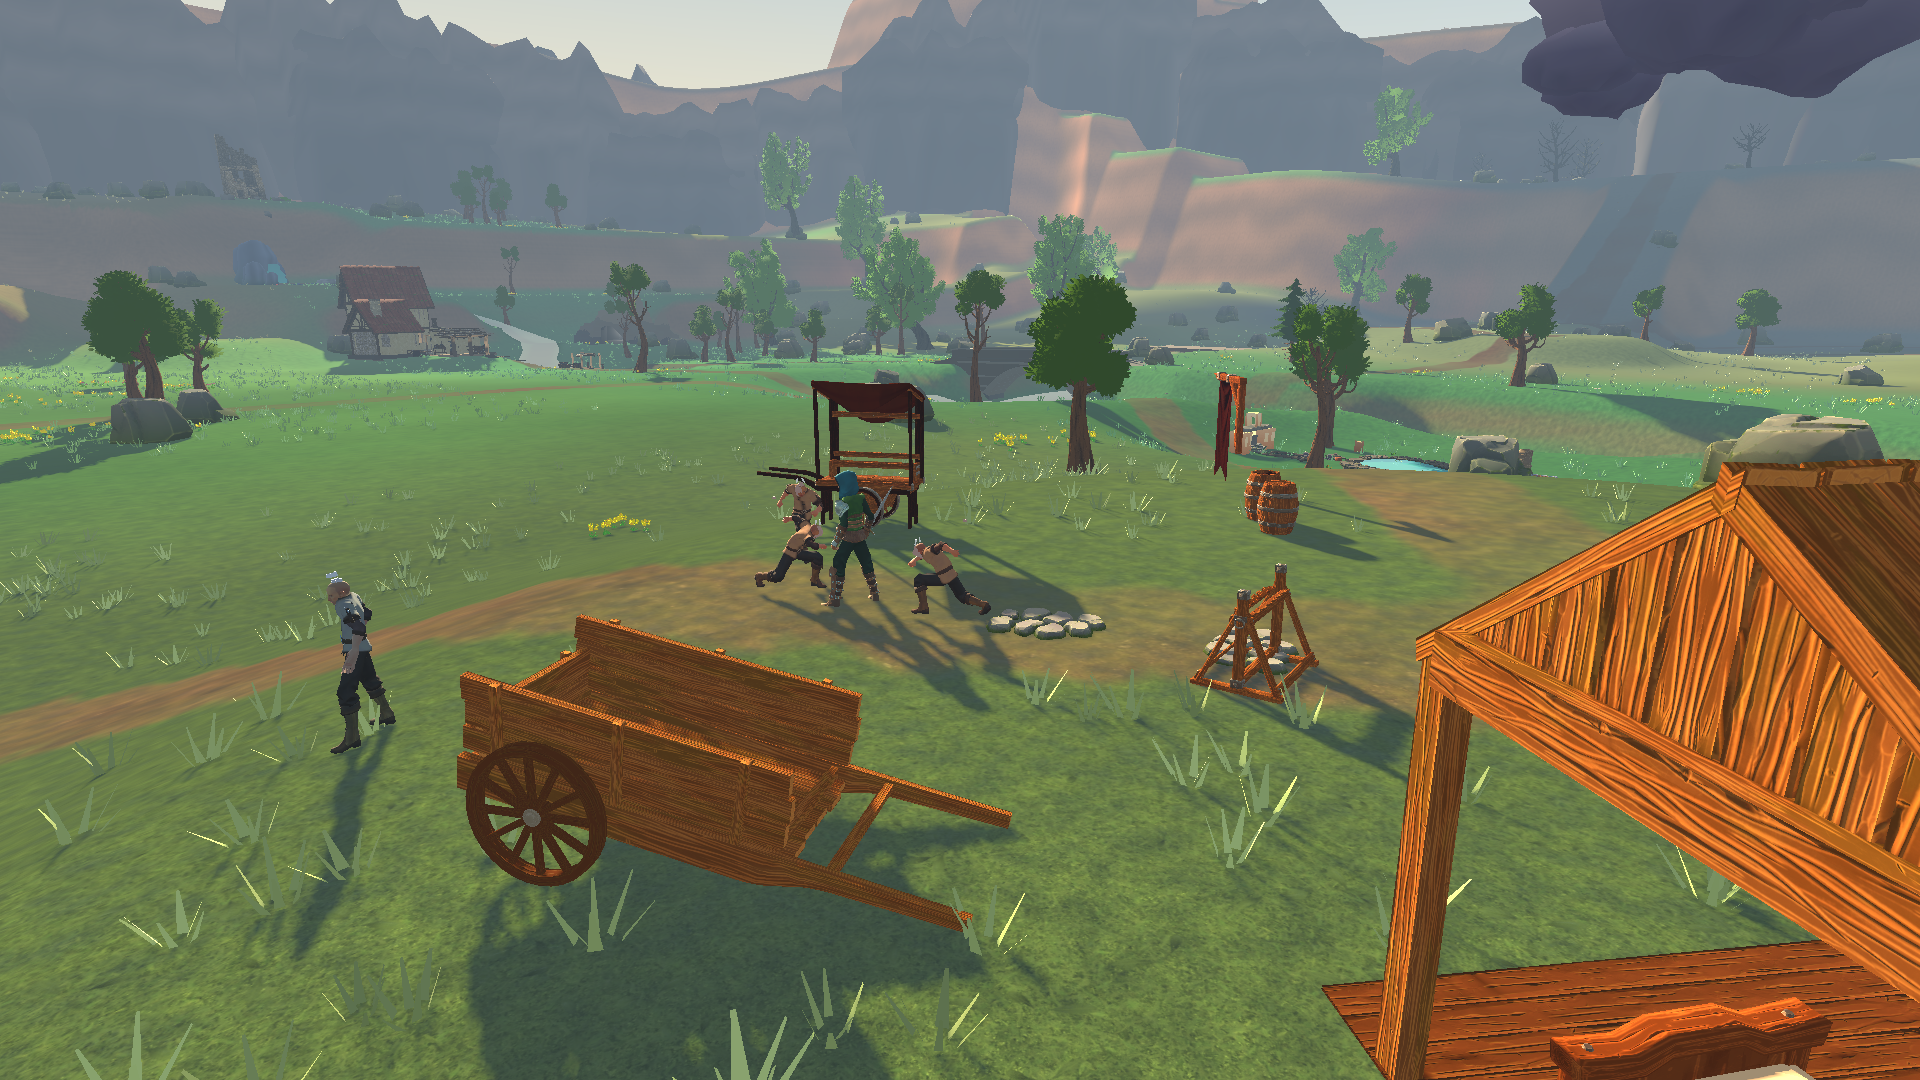
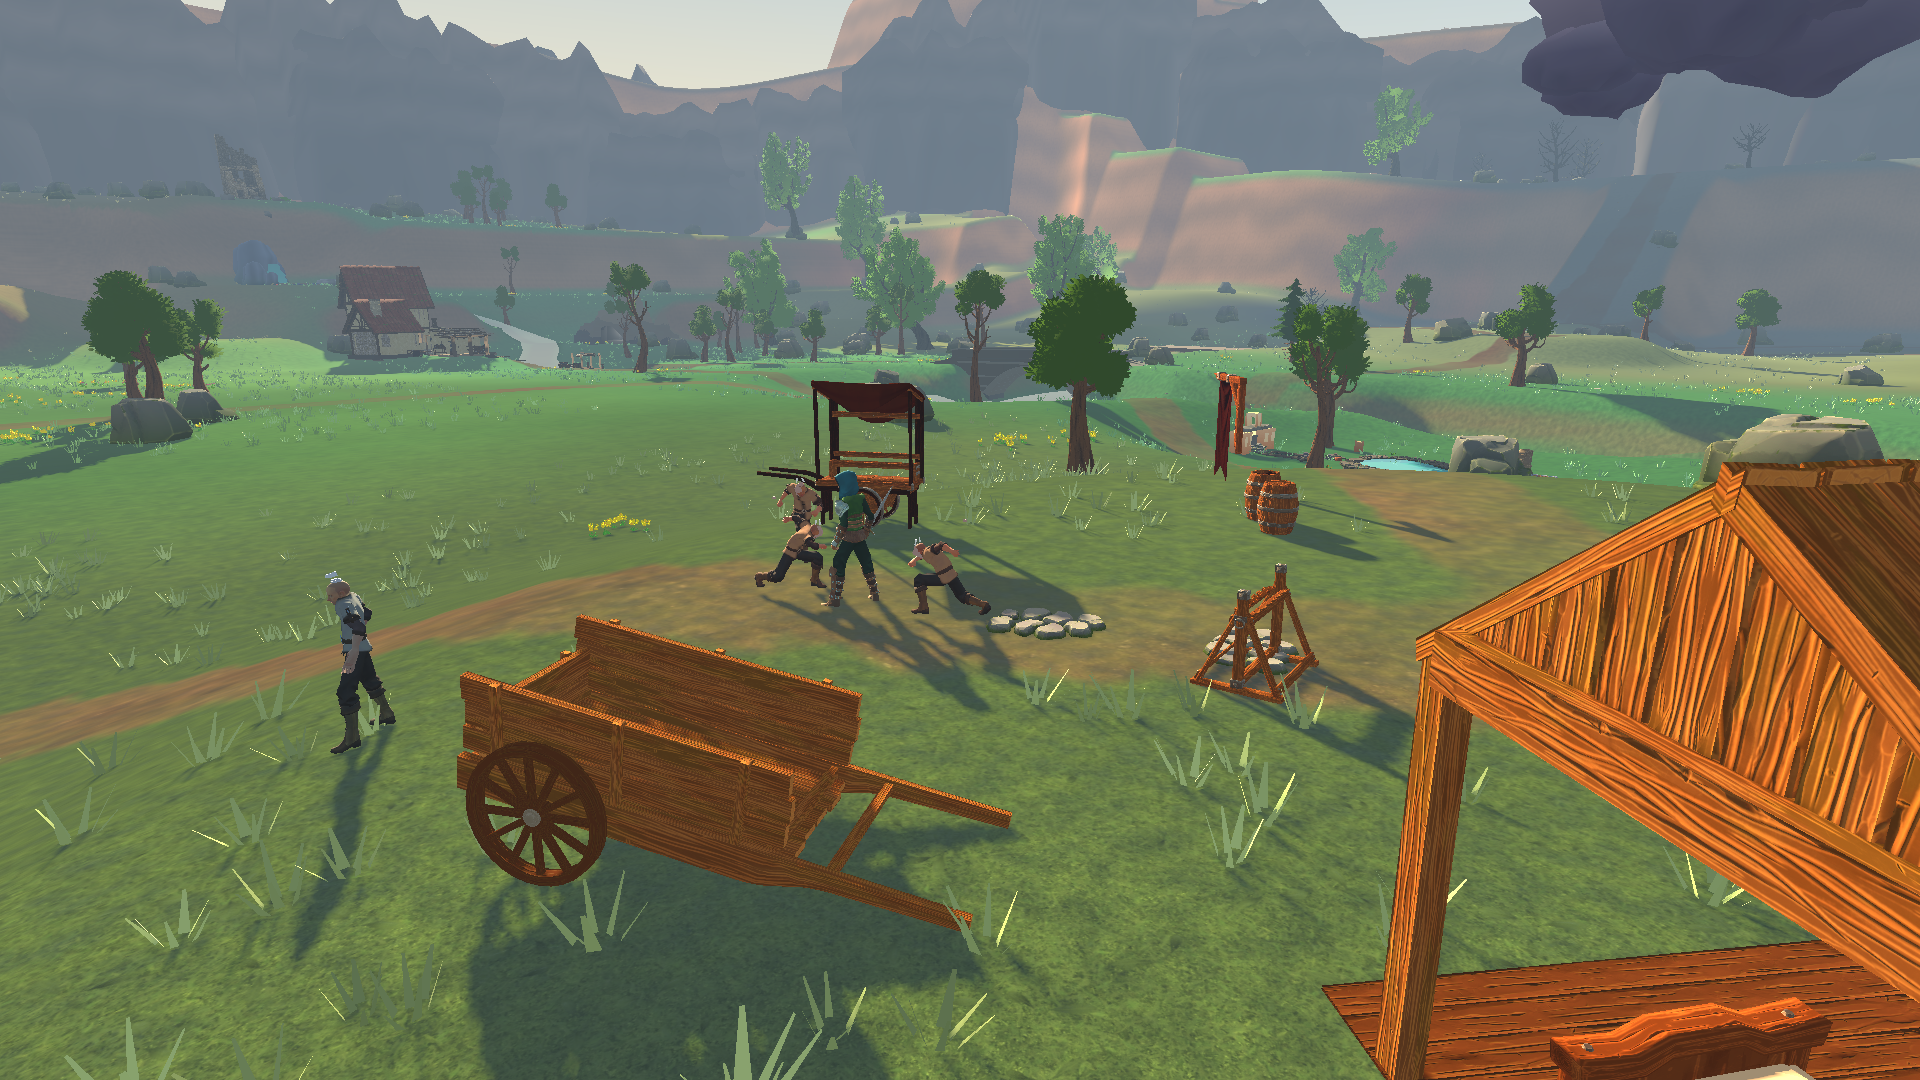
docs(camp): les trois captures autoritaires et le guide de la build expérimentale
Captures depuis un arbre PROPRE au commit qui contient l'outil qui les a
produites — les deux conditions ont dû être corrigées séparément, et le README
des preuves raconte l'ordre dans lequel elles ont mordu.

  01_approche      gardes=4  foyer=éteint  coffre_camp=non
  02_combat        gardes=4  foyer=éteint  coffre_camp=non   engagement=OUI
  03_camp_libere   gardes=0  foyer=ALLUMÉ  coffre_camp=OUI

Guide joueur de 15 à 25 minutes. Il ne raconte pas le jeu : il dit quoi
essayer, dans quel ordre, et ce qu'il faut REGARDER. Les deux tests qui
comptent y sont explicites — quitter par la croix puis « Continuer » (le camp
reste libéré, la caisse ouverte reste vide), et la variante qui compte autant :
libérer le camp SANS prendre la caisse, quitter, revenir, et la retrouver
fermée avec son contenu.

Il dit aussi ce que cette build n'est PAS : aucune mesure de performance n'a
de sens à partir d'un conteneur sans carte graphique, et le ressenti du joueur
vaut mieux qu'un compteur.

Claude-Session: https://claude.ai/code/session_01H1fHocGwj11SthNfNZ9hxk

diff --git a/docs/GUIDE_CAMP_EXP.md b/docs/GUIDE_CAMP_EXP.md
@@ -1,0 +1,115 @@
+# Build expérimentale « camp libéré » — 15 à 25 minutes
+
+**VIVANT.** Ce guide accompagne la préversion `world-v2-camp-exp-<SHA>`.
+Il ne remplace pas `docs/GUIDE_JOUEUR.md` (installation, commandes) : il dit
+seulement **quoi essayer**, dans quel ordre, et **ce qu'il faut regarder**.
+
+---
+
+## Ce qui est nouveau, et rien d'autre
+
+Trois choses, et elles sont toutes au **camp**, sur la terrasse au sud du point
+de départ :
+
+1. **Le camp est tenu par quatre pillards.** Trois au gourdin, un à la lance
+   qui monte la garde plus au sud.
+2. **Son foyer est éteint** tant qu'ils le tiennent.
+3. **Le libérer rallume le feu et laisse une caisse** — une épée usée et dix
+   flèches.
+
+Le reste du monde est inchangé.
+
+---
+
+## Le parcours, en 15 à 25 minutes
+
+### 1. Descendre vers le camp — 3 à 5 min
+
+Depuis le point de départ, descendez plein sud. Le camp est la terrasse
+dégagée en contrebas ; on le repère à sa palissade et à ses toiles.
+
+**À regarder** : le foyer est **froid**. Pas de flamme, pas de lueur. C'est
+voulu — il dit que le camp n'est pas à vous.
+
+### 2. Approcher, et se faire voir — 1 à 2 min
+
+Approchez sans vous presser. Les gardes ont un cône de vision et une portée
+d'ouïe ; ils ne vous voient pas de dos et pas à travers la palissade.
+
+**À regarder** : lequel vous repère en premier, et à quelle distance. Ils ne
+doivent JAMAIS vous voir à travers un mur.
+
+### 3. Le combat — 5 à 10 min
+
+Attaque légère au **clic gauche**, esquive au **Ctrl gauche**.
+
+**À regarder, et c'est le point le plus utile de cette build** :
+
+- deux pillards au plus vous attaquent en même temps — les autres tournent,
+  menacent, se replacent ;
+- si vous **reculez loin du camp**, ils abandonnent et rentrent. Ils ne doivent
+  pas vous suivre indéfiniment. Une flèche tirée de très loin ne doit pas
+  non plus les faire sortir de leur camp : c'est une correction de cette
+  passe, et c'est exactement ce qu'il faut essayer de mettre en défaut ;
+- s'ils vous tuent, **Réessayer** vous ramène au camp de départ. Ceux que vous
+  aviez déjà abattus **restent morts**.
+
+### 4. Le camp libéré — 2 à 3 min
+
+Au dernier garde tombé :
+
+- un message apparaît en haut de l'écran ;
+- **le feu se rallume** ;
+- **une caisse est là**, près du foyer.
+
+**À regarder** : ouvrez la caisse avec **E**. Vous récupérez l'épée usée et dix
+flèches. Changez d'arme et frappez un tonneau ou une jarre pour sentir la
+différence avec le gourdin.
+
+### 5. La reprise — 3 à 5 min, et c'est le vrai test
+
+Quittez le jeu par la **croix de la fenêtre**, puis relancez et faites
+**Continuer**.
+
+**À regarder, dans cet ordre** :
+
+- le feu est **toujours allumé** — le camp reste libéré ;
+- les quatre pillards **ne sont pas revenus** ;
+- la caisse que vous avez ouverte est **toujours ouverte, et vide**. Elle ne
+  redonne pas une seconde épée.
+
+**Et la variante qui compte autant** : refaites le parcours, mais cette fois
+**libérez le camp SANS ouvrir la caisse**, quittez, relancez, revenez.
+La caisse doit être là, **fermée**, avec son contenu intact. Repartir sans sa
+récompense ne doit jamais la faire disparaître.
+
+---
+
+## Ce qu'il faut nous signaler en priorité
+
+Par ordre de gravité, du plus grave au moins grave :
+
+1. **Un pillard qui vous suit hors du camp sans jamais renoncer.**
+2. **Une caisse qui redonne une arme une seconde fois** après un rechargement.
+3. **Un camp qui redevient occupé** après avoir été libéré.
+4. **Un feu qui reste éteint** alors que les quatre gardes sont tombés.
+5. Un garde qui vous voit à travers la palissade.
+6. Tout ce qui vous bloque : chute hors du monde, coincé dans un décor,
+   impossible de sortir d'un menu.
+
+Une remarque vague est utile aussi. « Je ne comprenais pas où aller » ou
+« le combat m'a paru mou » valent mieux que rien : c'est exactement le genre
+d'observation que les tests automatiques ne peuvent pas produire.
+
+---
+
+## Ce que cette build n'est PAS
+
+- Ce n'est pas une version jouable de bout en bout : le donjon et le boss sont
+  là, mais ce n'est pas ce qu'on vous demande d'essayer.
+- **Aucune mesure de performance n'a de sens ici** au-delà de « ça rame ou ça
+  ne rame pas » : les chiffres du dépôt viennent d'un conteneur sans carte
+  graphique, en rendu logiciel. Votre machine est le seul juge honnête de la
+  fluidité, et votre ressenti nous intéresse plus qu'un compteur.
+- Ce n'est pas une release officielle. C'est une **préversion expérimentale**,
+  faite pour être cassée.

diff --git a/evidence/world_v2/camp_libere/README.md b/evidence/world_v2/camp_libere/README.md
@@ -1,0 +1,59 @@
+# Le camp braise, premier POI complet — les preuves
+
+Contrat : `docs/contrats/camp_libere_world_v2.md`.
+Données : `resources/world_v2/world_v2_camp_liberation.json`.
+
+## Le contrat exécutable, du rouge au vert
+
+| Journal | Ce qu'il montre |
+|---|---|
+| `contrat_rouge.log` | **0 réussi, 8 échoué** — chaque échec nomme SON exigence (C1, C2, C5, C6, C8) |
+| `contrat_vert.log` | **5 réussi, 0 échoué** après l'implémentation |
+
+Le rouge n'est pas décoratif : il prouve que chaque cas peut échouer. Et
+chaque cas « après » a son « avant » — un camp qui ne se libérerait jamais
+satisferait « pas de coffre » et « foyer éteint » sans rien prouver.
+
+## Les trois captures, pour la revue Codex/Istvan
+
+`captures/` — commit `a80ceca8`, arbre propre, rendu **logiciel**.
+
+| Plan | gardes | foyer | coffre du camp | engagement |
+|---|---:|---|---|---|
+| `01_approche` | 4 | éteint | absent | — |
+| `02_combat` | 4 | éteint | absent | **réel** |
+| `03_camp_libere` | 0 | **allumé** | **présent** | — |
+
+`engagement: true` n'est pas un décor : le héros est posé au milieu de la
+garnison et le script ATTEND qu'un garde l'acquière par sa propre perception.
+Sans engagement, le manifeste l'aurait dit au lieu de livrer une image
+racontant un combat inexistant.
+
+**Aucun verdict artistique n'est rendu ici.** Ces images partent à la revue ;
+le rendu est logiciel, donc lisible pour une composition et un état de jeu,
+jamais pour juger une lumière finale ni une performance.
+
+## Le manifeste qui mentait, gardé exprès
+
+`captures_indicateur_faux/manifest.json` — premier run. `_coffre_present()`
+comptait N'IMPORTE QUEL coffre du monde, or les POI de la vallée en posent
+déjà. Le manifeste annonçait donc « coffre présent » sur les deux plans où le
+camp n'est PAS libéré : un relecteur y aurait lu « la récompense existe avant
+la victoire ».
+
+Il est conservé pour la même raison que le profil CPU invalide d'ISS-074 :
+**une mesure peut être exacte, reproductible et fausse** quand l'indicateur ne
+regarde pas ce qu'on croit. L'indicateur vise désormais le coffre du camp par
+son identifiant.
+
+## Deux corrections de provenance, dans l'ordre où elles ont mordu
+
+1. Le premier lot nommait un commit qui **ne contenait pas l'outil** l'ayant
+   produit. Outil committé, puis recapture.
+2. Le contrôle de propreté se contentait de `--untracked-files=no` : une fois
+   les PNG suivis, une recapture les modifie, et l'outil **déclarait l'arbre
+   sale à cause de sa propre sortie**. Aligné sur `capture_poi_batch.gd` — on
+   saute `evidence/`, et seulement `evidence/`.
+
+Le lot autoritaire porte donc `commit a80ceca8` et `repo_dirty: false`, et ce
+commit contient bien le script qui a produit les images.
